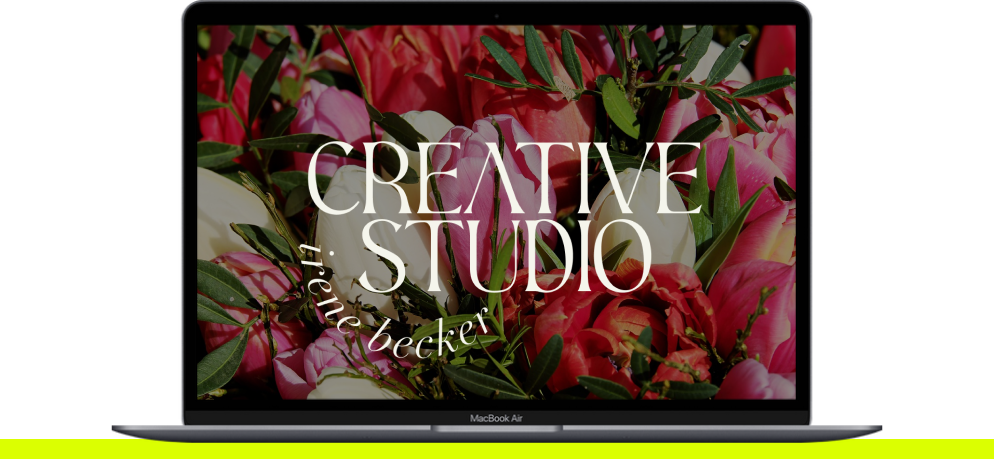
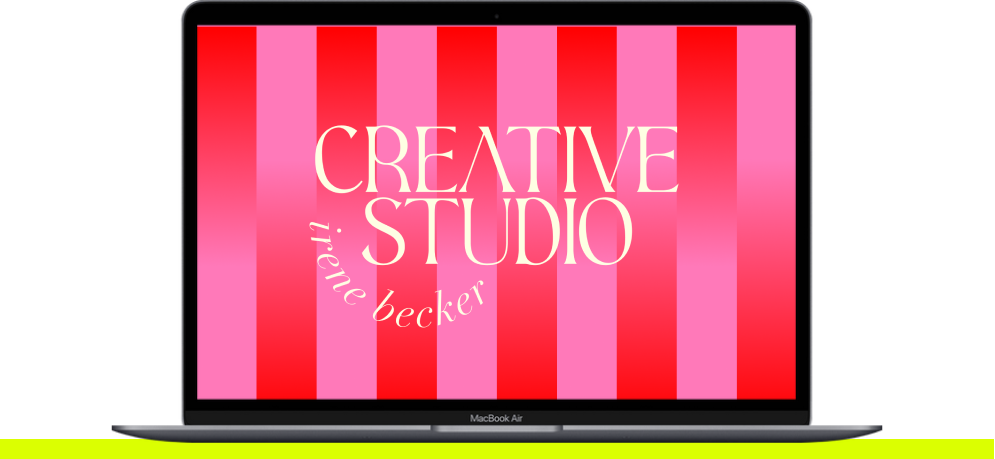
foto mac

diff --git a/portfolio.html b/portfolio.html
@@ -44,7 +44,7 @@
                         <h2>Página web & Logotipo para Álvaro Gomis<br>
                         FILMMAKER & PHOTOGRAPHY<br>
                         <b>WordPress</b> | Elementor | CSS<h2>
-                        <p>Work in progress.</p>
+                        <p>En proceso | Marzo de 2024.</p>
                         <a class="enlace" href="https://alvarogomis.com/" target="_blank" rel=”noopener noreferrer”>www.alvarogomis.com</a>
                     </div>
                 </div><!-- cierro bloque 1 -->
@@ -60,7 +60,7 @@
                         <h2>Página web para Unmap<br>
                         DATA · URBANISM · ARCHITECTURE<br>
                         <b>WordPress</b> | Elementor | CSS<h2>
-                        <p>Work in progress.</p>
+                        <p>En proceso.</p>
                         <a class="enlace" href="https://unmap.es/" target="_blank" rel=”noopener noreferrer”>www.unmap.es</a>
                     </div>
                 </div><!-- cierro bloque 1 -->
@@ -75,7 +75,7 @@
                         <a  href="work_deassin.html"><h1>E-SHOP DEASSÍN</h1></a>
                         <h2>Tienda online de la marca de joyas Madrileña Deassín. 
                             Diseño en Figma y realizada en <b>Shopify</b> | CSS.<h2>
-                        <p>Lanzada en Noviembre de 2023.</p>
+                        <p>Lanzada en noviembre de 2023.</p>
                         <a class="enlace" href="https://deassin.com" target="_blank" rel=”noopener noreferrer”>www.deassin.com</a>
                     </div>
                 </div><!-- cierro bloque 2 -->

diff --git a/index.html b/index.html
@@ -47,7 +47,7 @@
                 <p>La relación entre diseño gráfico y maquetación web es crucial en la construcción de una imagen de marca profesional.</p>
             </div>
         
-            <img src="img/mac_flores_studio.png" alt="mac_flowers" >
+            <img src="img/NEW WEB/mac_flores.png" alt="mac_logo" >
        
 
        </section> <!-- cierra cuerpo -->
